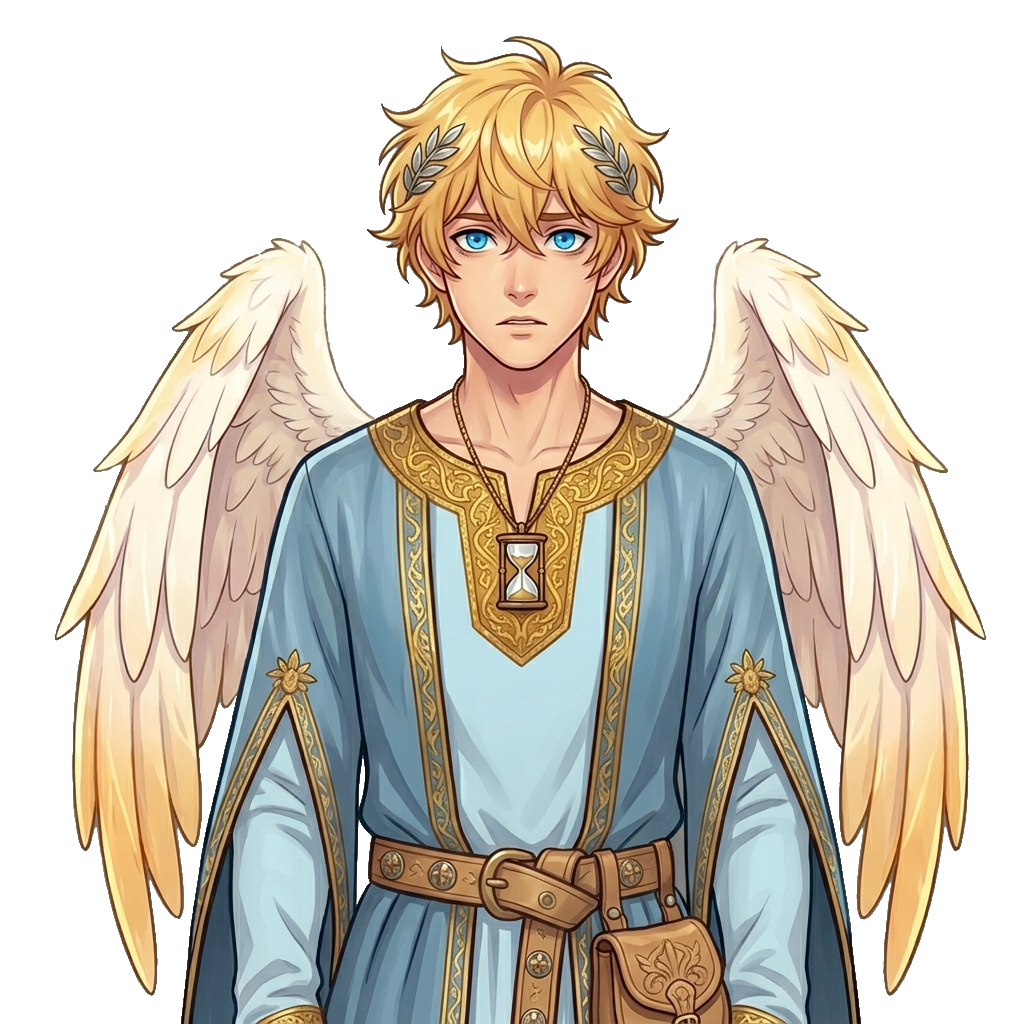
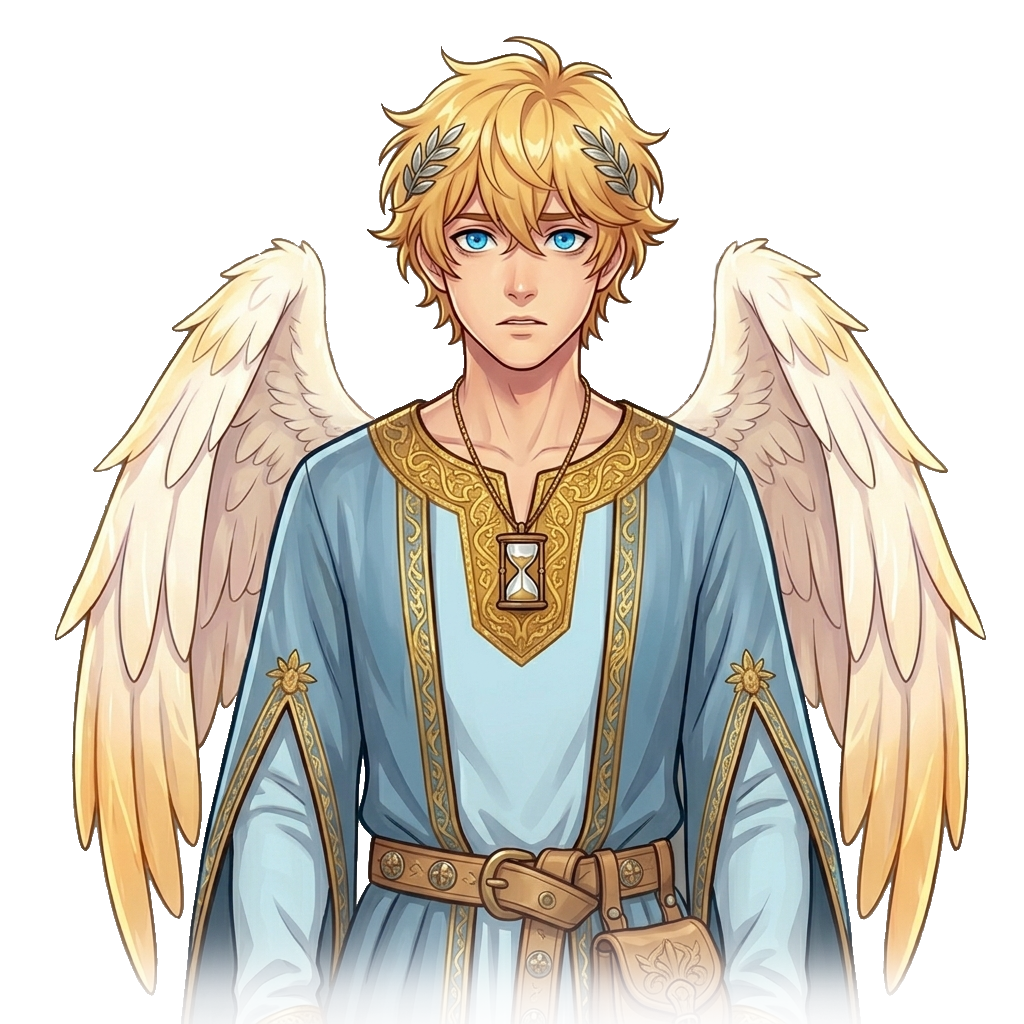
Add files via upload

Changed region(s): [[0.0938, 0.875, 0.9062, 1.0]]

diff --git a/index.html b/index.html
@@ -23,8 +23,8 @@
   <main id="start-screen" class="screen-overlay">
     <div class="glass-panel title-container">
       <h1 class="game-title"></h1>
-      <p class="game-subtitle">Late Night Lounge Talks</p>
       <div class="menu-buttons">
+
         <button id="btn-start" class="btn btn-primary" onclick="startGame()">Start Novel</button>
         <button id="btn-settings" class="btn btn-secondary" onclick="toggleSettingsModal(true)">Settings</button>
         <button id="btn-about" class="btn btn-secondary" onclick="toggleAboutModal(true)">About</button>
